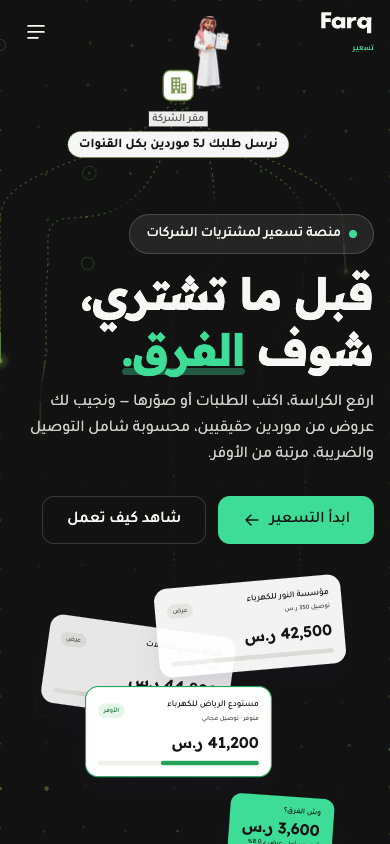
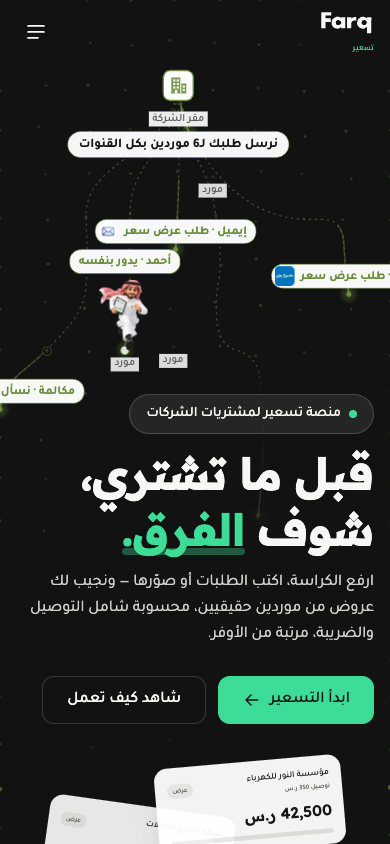
landing (phone): room for the story above the hero (top padding 330 px) — suppliers, Ahmad's run and the returning prices on the first screen; Ahmad's clean run may be shorter on narrow screens

diff --git a/src/pages/landing/sections/Hero.tsx b/src/pages/landing/sections/Hero.tsx
@@ -145,7 +145,7 @@ export function Hero() {
   return (
     <section id="top" data-tone="deep" aria-labelledby="hero-title" className={cx(DEEP_FOCUS, 'relative overflow-hidden bg-[var(--color-bg-canvas)] text-[var(--color-text-primary)]')}>
         <LiveBgSlot tone="deep" />
-        <Container className="grid items-center gap-[var(--space-32)] pb-[var(--space-48)] pt-[150px] lg:grid-cols-2 lg:pb-[var(--space-80)] lg:pt-[170px]">
+        <Container className="grid items-center gap-[var(--space-32)] pb-[var(--space-48)] pt-[330px] lg:grid-cols-2 lg:pb-[var(--space-80)] lg:pt-[170px]">
           <div className="flex flex-col items-start gap-[var(--space-12)]">
             <p className="inline-flex items-center gap-[var(--space-8)] rounded-[var(--radius-full)] border border-[var(--white-a16)] bg-[var(--white-a8)] px-[var(--space-16)] py-[var(--space-8)] text-[14px] font-medium leading-[22px]">
               <span aria-hidden="true" className="size-2 rounded-full bg-[var(--color-bg-brand)]" />

diff --git a/src/live-bg/pageNetwork.ts b/src/live-bg/pageNetwork.ts
@@ -294,7 +294,7 @@ export class PageNetwork {
       // never behind text; only if there is none, he waits next to the head office
       const blockV = (v: number) => (owner[v] >= 0 && owner[v] !== RK) || this.inUI(V[v].x, V[v].y, 24)
       const cand: Array<[number, number]> = []
-      for (let i = 0; i < V.length; i++) { const v = V[i]; if (blockV(i) || this.inUI(v.x, v.y, 40) || v.y <= 90 || v.y > VH - 90) continue; const d = Math.hypot(v.x - C.x, v.y - C.y); if (d >= 260 && d <= RMAX) cand.push([d, i]) }
+      for (let i = 0; i < V.length; i++) { const v = V[i]; if (blockV(i) || this.inUI(v.x, v.y, 40) || v.y <= 90 || v.y > VH - 90) continue; const d = Math.hypot(v.x - C.x, v.y - C.y); if (d >= Math.min(260, W * 0.55) && d <= RMAX) cand.push([d, i]) } // a phone is narrow: a shorter clean run still counts
       cand.sort((a, b) => b[0] - a[0])
       let alt: Walker | null = null
       for (const [, i] of cand.slice(0, 16)) {
